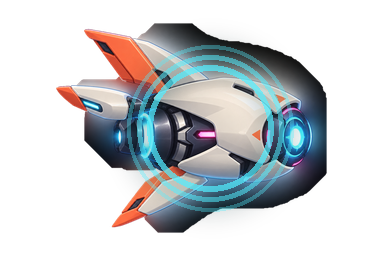
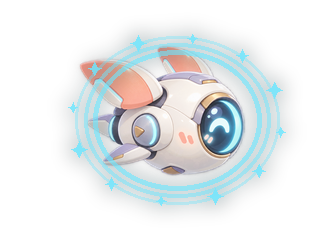
fix: restore overlay visibility and soften companion style

diff --git a/src/Flight.tsx b/src/Flight.tsx
@@ -348,18 +348,14 @@ function orbitPosition(
   width: number,
   height: number,
 ) {
-  const phase = index * 2.399963;
-  const t = clock * (0.72 + (index % 4) * 0.045) + phase;
-  const lane = 0.68 + (index % 3) * 0.1;
+  const phase = (index * 0.61803398875) % 1;
+  const progress = (clock * (0.055 + (index % 3) * 0.006) + phase) % 1;
+  const lane = 0.17 + ((index * 3) % 7) * 0.105;
+  const arc = Math.sin(progress * Math.PI * 2 + index * 0.72);
+  const bob = Math.sin(progress * Math.PI * 6 + index) * 0.018;
   return {
-    x:
-      width *
-      (0.5 + lane * 0.43 * Math.sin(t) + 0.045 * Math.sin(t * 2.7 + phase)),
-    y:
-      height *
-      (0.5 +
-        lane * 0.34 * Math.sin(t * 1.63 + phase * 0.45) +
-        0.035 * Math.cos(t * 3.2)),
+    x: width * (-0.1 + progress * 1.2),
+    y: height * (lane + arc * 0.055 + bob),
   };
 }
 function drawBuiltinSprite(

diff --git a/src/main.tsx b/src/main.tsx
@@ -73,7 +73,7 @@ function App() {
         <span>
           <b className="mark">◉</b> JUNO / PULSAR DESKTOP
         </span>
-        <small>0.2.0 · 开发预览</small>
+        <small>0.2.1 · 开发预览</small>
       </header>
       <div className="heading">
         <div>

diff --git a/src-tauri/src/desktop/mod.rs b/src-tauri/src/desktop/mod.rs
@@ -38,29 +38,19 @@ pub fn attach(hwnd: HWND) -> Result<&'static str> {
         if sent.0 == 0 {
             return Err(NativeError::at("workerw_timeout", Error::from_win32()));
         }
-        let mut desktop_host = HWND::default();
+        let mut worker = HWND::default();
         EnumWindows(
-            Some(find_desktop_host),
-            LPARAM((&mut desktop_host as *mut HWND) as isize),
+            Some(find_worker),
+            LPARAM((&mut worker as *mut HWND) as isize),
         )
         .map_err(|e| NativeError::at("enum_windows", e))?;
-        let (parent, mode) = if desktop_host.is_invalid() {
-            (progman, "progman")
-        } else {
-            (desktop_host, "desktop_host")
-        };
-        SetParent(hwnd, Some(parent)).map_err(|e| NativeError::at("set_parent", e))?;
-        let extended = GetWindowLongPtrW(hwnd, GWL_EXSTYLE);
-        SetLastError(WIN32_ERROR(0));
-        let old_extended = SetWindowLongPtrW(
-            hwnd,
-            GWL_EXSTYLE,
-            extended | WS_EX_TOOLWINDOW.0 as isize | WS_EX_NOACTIVATE.0 as isize,
-        );
-        if old_extended == 0 && GetLastError().0 != 0 {
-            let _ = SetParent(hwnd, None);
-            return Err(NativeError::at("desktop_ex_style", Error::from_win32()));
+        if worker.is_invalid() {
+            return Err(NativeError::at(
+                "workerw_missing",
+                Error::from_hresult(E_FAIL),
+            ));
         }
+        SetParent(hwnd, Some(worker)).map_err(|e| NativeError::at("set_parent", e))?;
         let style = GetWindowLongPtrW(hwnd, GWL_STYLE);
         SetLastError(WIN32_ERROR(0));
         let old = SetWindowLongPtrW(
@@ -72,8 +62,19 @@ pub fn attach(hwnd: HWND) -> Result<&'static str> {
             let _ = SetParent(hwnd, None);
             return Err(NativeError::at("child_style", Error::from_win32()));
         }
-        Ok(mode)
+        Ok("workerw")
     }
+}
+unsafe extern "system" fn find_worker(window: HWND, context: LPARAM) -> BOOL {
+    // SAFETY: EnumWindows invokes synchronously; context points to the caller's valid HWND.
+    unsafe {
+        if FindWindowExW(Some(window), None, w!("SHELLDLL_DefView"), None).is_ok() {
+            if let Ok(worker) = FindWindowExW(None, Some(window), w!("WorkerW"), None) {
+                *(context.0 as *mut HWND) = worker;
+            }
+        }
+    }
+    TRUE
 }
 unsafe extern "system" fn find_desktop_host(window: HWND, context: LPARAM) -> BOOL {
     // SAFETY: EnumWindows invokes synchronously; context points to the caller's valid HWND.
@@ -101,6 +102,19 @@ pub fn host_signature() -> isize {
 pub fn bottom(hwnd: HWND) -> Result<()> {
     // SAFETY: only positioning our live window; no external window is modified.
     unsafe {
+        let extended = GetWindowLongPtrW(hwnd, GWL_EXSTYLE);
+        SetLastError(WIN32_ERROR(0));
+        let old = SetWindowLongPtrW(
+            hwnd,
+            GWL_EXSTYLE,
+            extended | WS_EX_TOOLWINDOW.0 as isize | WS_EX_NOACTIVATE.0 as isize,
+        );
+        if old == 0 && GetLastError().0 != 0 {
+            return Err(NativeError::at("fallback_ex_style", Error::from_win32()));
+        }
+        if IsIconic(hwnd).as_bool() {
+            let _ = ShowWindow(hwnd, SW_RESTORE);
+        }
         SetWindowPos(
             hwnd,
             Some(HWND_BOTTOM),

diff --git a/src-tauri/src/desktop/monitors.rs b/src-tauri/src/desktop/monitors.rs
@@ -141,3 +141,21 @@ pub fn rebuild(app: &tauri::AppHandle) -> Result<(), String> {
     }
     Ok(())
 }
+pub fn maintain(app: &tauri::AppHandle) {
+    for (label, window) in app.webview_windows() {
+        if label != "overlay" && !label.starts_with("overlay-") {
+            continue;
+        }
+        let Ok(raw) = window.hwnd() else { continue };
+        let hwnd = windows::Win32::Foundation::HWND(raw.0);
+        // SAFETY: the handle belongs to this app. Parent and iconic state are read only.
+        unsafe {
+            if windows::Win32::UI::WindowsAndMessaging::GetParent(hwnd)
+                .map(|parent| parent.is_invalid())
+                .unwrap_or(true)
+            {
+                let _ = super::bottom(hwnd);
+            }
+        }
+    }
+}

diff --git a/src-tauri/src/main.rs b/src-tauri/src/main.rs
@@ -150,6 +150,10 @@ fn main() {
                                 log::error!("lifecycle_rebuild {code}");
                             }
                         });
+                    } else {
+                        let handle = lifecycle.clone();
+                        let _ = lifecycle
+                            .run_on_main_thread(move || desktop::monitors::maintain(&handle));
                     }
                 }
             });

diff --git a/README.md b/README.md
@@ -2,7 +2,7 @@
 
 Windows 10/11 x64 的非官方桌面飞行物应用。Tauri 2 + React + TypeScript + Rust/Win32，包含原创生成皮肤、程序化特效与本地合成音效。
 
-**当前是 0.2.0 开发预览，不是已经完成真实桌面删除验收的稳定版。** 删除默认关闭；启用后在桌面项目上松开会直接移入回收站。桌面挂载与混合 DPI 兼容性请按手工清单验证。
+**当前是 0.2.1 开发预览，不是已经完成真实桌面删除验收的稳定版。** 删除默认关闭；启用后在桌面项目上松开会直接移入回收站。桌面挂载与混合 DPI 兼容性请按手工清单验证。
 
 ## 运行
 

diff --git a/CHANGELOG.md b/CHANGELOG.md
@@ -1,5 +1,11 @@
 # Changelog
 
+## [0.2.1] - 2026-09-23
+
+- Restore the proven visible top-level overlay fallback and mark it as a non-activating tool window so Win+D does not minimize it.
+- Add periodic overlay restoration without cross-process WebView parenting.
+- Replace the pulse companion with a softer original chibi design and change the flight pattern to gentle forward arcs with pastel star-dust trails.
+
 ## [0.2.0] - 2026-09-23
 
 - Attach the overlay to the actual Progman/WorkerW desktop host so Win+D and closing windows do not minimize the companion or pause dynamic wallpaper.
